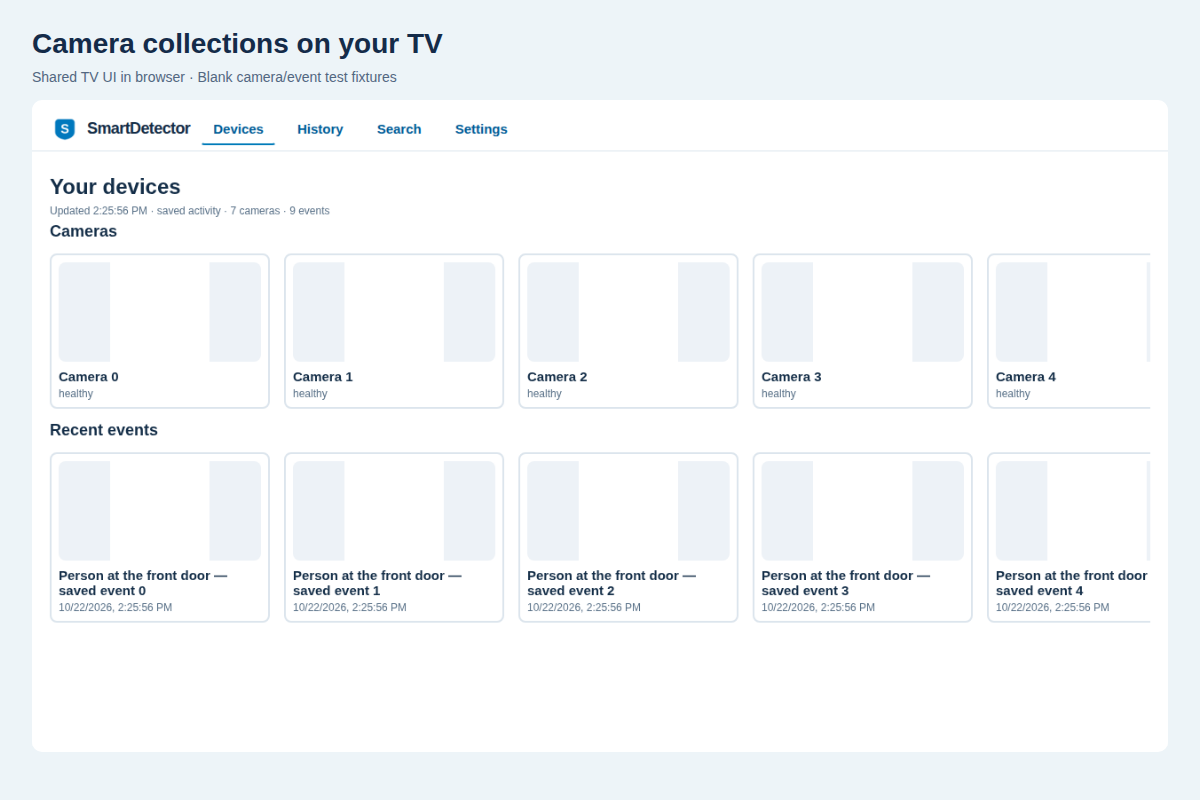
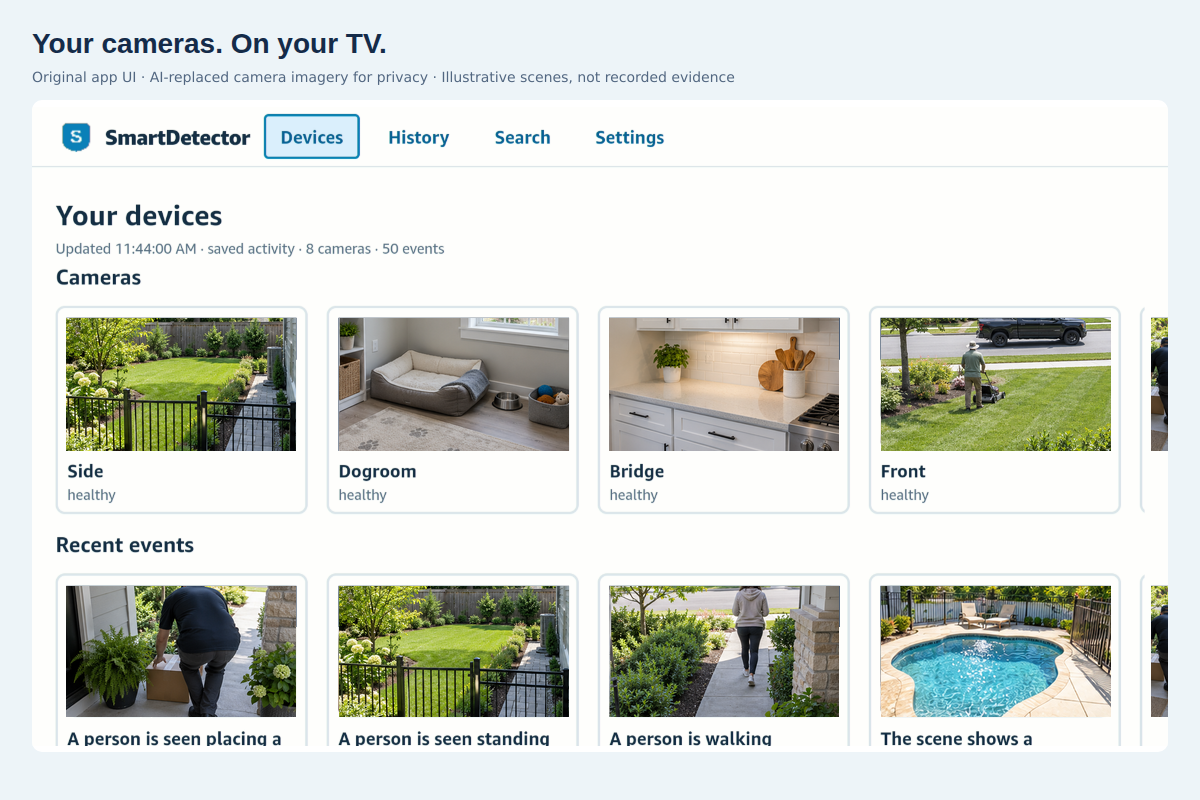
Refresh README and demo gallery with privacy-safe camera imagery

diff --git a/docs/demo-assets/gallery/README.md b/docs/demo-assets/gallery/README.md
@@ -4,23 +4,23 @@ Upload these PNGs in order. Each is **1200 × 800 (3:2)** and below Devpost’s 
 
 | Order | Image | What it shows |
 | --- | --- | --- |
-| 1 | [Website](01-website.png) | Product homepage with public recorded demo content. |
-| 2 | [Dashboard](02-dashboard.png) | Device activity and recent events, using isolated recorded fixtures. |
+| 1 | [Website](01-website.png) | Product homepage; camera photo replaced with a similar anonymous AI scene. |
+| 2 | [Dashboard](02-dashboard.png) | Actual smartdetector.com interface with AI-replaced camera photos; account identifier remains masked. |
 | 3 | [Device catalog](03-devices.png) | SmartDetector’s integration catalog. |
 | 4 | [Connect Ring](04-connect-ring.png) | SmartDetector’s Ring authorization instructions. This is not Ring’s own login or proof of a completed connection. |
 | 5 | [Approve TV](05-pair-tv-web.png) | Browser side of the pairing flow, with a nonfunctional example code. |
 | 6 | [TV QR pairing](06-tv-qr.png) | Shared TV screen captured in the browser. |
-| 7 | [TV devices](07-tv-devices.png) | Camera and activity rails with test fixtures. |
-| 8 | [TV camera](08-tv-camera.png) | Camera detail and history navigation. |
-| 9 | [TV event](09-tv-event.png) | Frame-review interface with blank evidence fixtures. |
-| 10 | [TV search](10-tv-search.png) | Saved-event search results from test fixtures. |
+| 7 | [TV devices](07-tv-devices.png) | Physical Vega Fire TV interface with similar AI-generated camera scenes. |
+| 8 | [TV camera](08-tv-camera.png) | Browser camera-detail fixture with an illustrative AI photo. |
+| 9 | [TV event](09-tv-event.png) | Native physical-TV review interface with an illustrative AI photo; device identifier remains masked. |
+| 10 | [TV search](10-tv-search.png) | Browser search fixtures with illustrative AI thumbnails. |
 | 11 | [TV settings](11-tv-settings.png) | Read-only display settings. |
 
 ## What these images establish
 
-These are actual browser UI captures, presented on labeled gallery cards. They are not generated mockups. Website screens use an isolated temporary local account; dashboard camera/event responses come from public recorded samples. No Ring account was connected and no fresh inference ran. The temporary account is deleted by the capture script, and fixture devices/events are never written to the database.
+Gallery items 2, 7 and 9 use connected-account interfaces captured on October 22, 2026. Items 7 and 9 come from the physical Vega TV running local 0.1.18 build 14; item 2 comes from smartdetector.com. For the public marketing gallery, photographic regions in items 1, 2, 7, 8, 9 and 10 have been replaced with similar AI-generated anonymous scenes. These are illustrations, not untouched screenshots, real household footage, new detections or inference evidence. Every edited card carries that disclosure. UI pixels outside the photographic regions and exterior provenance caption are verified unchanged; see [pixel audit](ai-edit-audit.json). Account/device identifier masks are retained. Unedited originals and raw videos remain outside Git in the private sibling demo-assets directory.
 
-TV images are from the shared React Native Web UI captured by Playwright, not native Vega screenshots. Their captions preserve that distinction. Use an actual Vega simulator or physical-TV recording for the required native demonstration. No private household footage, real account identifiers, provider tokens or credentials are included.
+The other images retain their original provenance: website onboarding/catalog captures use an isolated local account, and TV pairing, camera detail, search and settings remain shared React Native Web previews with fixtures. Screens without camera imagery were left unchanged. These previews do not establish native behavior on screens we have not captured. Neither the illustrative photos nor supplied external detections prove fresh SmartDetector Bedrock inference.
 
 AutoVision is an optional external detection add-on, outside the hackathon submission. Recorded sample imagery is demonstration content, not a claim of SmartDetector-native image detection or a live Bedrock response.
 
@@ -32,4 +32,14 @@ Start the local website and ensure the [existing TV captures](../../images/vega-
 GALLERY_URL=http://localhost:8082 node apps/vega/preview/capture-gallery.mjs
 ```
 
-The script refuses non-loopback targets. It creates and then deletes only its own temporary local account. The capture never opens production customer cameras. The image sources and labels are defined in the script; do not remove the fixture/native-preview distinctions when reusing them.
+The original fixture capture script refuses non-loopback targets and deletes only its own temporary local account. It and `render-native-gallery.mjs` produce baseline captures, not the final AI-illustrated gallery. Back up this gallery before running either script. The final image-only compositing pass is:
+
+```bash
+PRIVATE_CAPTURE_DIR=/path/to/smartdetector-demo-assets node apps/vega/preview/polish-gallery.mjs
+```
+
+It reads the pre-edit 1200×800 cards from `gallery-before-ai/` in that private directory, uses the committed AI scene assets, verifies unchanged UI pixels, and writes the six replacements and audit. Raw captures must never be copied into the repository. Keep provenance captions when reusing assets.
+
+## AI editing brief
+
+Built-in image generation was used, followed by deterministic photo-region compositing. Prompt: sharp, photorealistic anonymous security-camera scenes similar to the originals (parcel delivery, garden gate, visitor leaving, front lawn with pickup and gardener, empty pet room, kitchen, pool). No identifiable faces, addresses, readable plates, device IDs, logos or embedded timestamps. Preserve the actual UI; do not redraw navigation, controls or analysis. Sources: `../ai-camera-scenes.png` and `../ai-pool-scene.png`.

diff --git a/docs/HACKATHON-FIELD-GUIDE.md b/docs/HACKATHON-FIELD-GUIDE.md
@@ -10,13 +10,13 @@ Quick links: [Create account](https://smartdetector.com/signup) · [Sign in](htt
 
 ## Take a look before you start
 
-![SmartDetector QR pairing screen captured by Playwright](images/vega-playwright/1280-pairing.png)
+![SmartDetector QR pairing screen captured by Playwright](demo-assets/gallery/06-tv-qr.png)
 
 *Pair on your phone or computer; browse on the TV. Actual shared React UI captured in Playwright at 1280 × 720, using isolated test responses.*
 
 [Watch the browser UI walkthrough — WebM](images/vega-playwright/1280-walkthrough.webm) · [Capture details and reproduction](images/vega-playwright/README.md)
 
-These are browser-preview captures, not native Vega recordings. Camera names, timestamps, events and blank image fixtures are test data. They demonstrate the interface, not Ring delivery or real inference. The required hackathon video must separately show the native app on Vega hardware or its simulator.
+The pairing screen and linked browser walkthrough use isolated test responses. Gallery cards below include native physical-TV interfaces and browser previews, with AI-generated replacement camera imagery for privacy. Captions distinguish them; illustrative photos do not establish Ring delivery or real inference. [View the complete gallery](demo-assets/gallery/README.md). The required hackathon video must separately show the native app on Vega hardware or its simulator.
 
 ## Step 1 — Launch the Vega simulator
 
@@ -74,9 +74,9 @@ Ring’s own camera/cloud subscription requirements are separate from SmartDetec
 
 **You should see:** the Devices screen. An empty location is normal until you connect cameras. A TV display is a viewer, not a camera, so it does not produce its own image or motion events.
 
-![Camera and event rails in the shared React interface](images/vega-playwright/1280-home.png)
+![Camera and event rails with illustrative camera imagery](demo-assets/gallery/07-tv-devices.png)
 
-*The camera library uses horizontal rails. Test fixtures shown; these are not private household cameras.*
+*Native physical-TV interface with similar AI-generated camera scenes substituted for privacy. These illustrations are not recorded evidence.*
 
 Pairing codes last ten minutes. Get a fresh code if necessary. Display authorization is held in app memory: after restarting the app, pair again. You can revoke the display from the website’s Devices section.
 
@@ -104,13 +104,13 @@ Ring currently documents US-located test devices and an active Ring Protection p
 
 **Success:** the same camera event and retained evidence are visible on the website and the paired TV. Opening live view alone is not a motion event. Empty results mean no matching retained evidence—not proof that nothing happened.
 
-![Frame review controls in the shared React interface](images/vega-playwright/1280-event.png)
+![Frame review controls with illustrative camera imagery](demo-assets/gallery/09-tv-event.png)
 
-*Review sampled frames and available evidence. This UI capture uses blank test images and does not represent analyzed footage.*
+*Native frame-review interface; the photo is an AI-generated privacy-safe illustration, not retained evidence or a new inference result.*
 
-![Saved-event search in the shared React interface](images/vega-playwright/1280-results.png)
+![Saved-event search in the shared React interface](demo-assets/gallery/10-tv-search.png)
 
-*Search existing retained evidence, then select a result to review it. Search results shown are isolated fixtures.*
+*Search existing retained evidence, then select a result to review it. This browser fixture uses AI-generated illustrative thumbnails.*
 
 ## What to look for in the Vega app
 

diff --git a/README.md b/README.md
@@ -37,11 +37,11 @@ Inspired by Ring and Prime Video, SmartDetector treats cameras like collections 
 
 **Ring supplies the activity. SmartDetector organizes it. Vega brings it to your screen.**
 
-![SmartDetector camera and recent-event rails](docs/images/vega-playwright/1280-home.png)
+![SmartDetector TV interface with privacy-safe illustrative camera imagery](docs/demo-assets/gallery/07-tv-devices.png)
 
-*The shared React UI, captured with Playwright using isolated test fixtures. This is a browser preview, not native Vega footage or evidence of real camera analysis.*
+*UI captured on a physical Vega Fire TV. Camera imagery is replaced with similar AI-generated scenes for privacy; the interface is unchanged.*
 
-[Watch the UI walkthrough](docs/images/vega-playwright/1280-walkthrough.webm) · [Capture details](docs/images/vega-playwright/README.md)
+[Watch the browser UI walkthrough](docs/images/vega-playwright/1280-walkthrough.webm) · [Native capture details](docs/images/vega-native/README.md)
 
 ## From a moment at the door to a clearer picture
 
@@ -51,9 +51,15 @@ Inspired by Ring and Prime Video, SmartDetector treats cameras like collections 
 4. **Review the evidence.** Step through sampled frames and inspect available detections and AI context.
 5. **Stay in control.** Use location-scoped access, revocable read-only displays, data purge and account deletion. Saved event/image retention defaults to 24 hours.
 
-![QR pairing on SmartDetector Console](docs/images/vega-playwright/1280-pairing.png)
+![QR pairing on SmartDetector Console](docs/demo-assets/gallery/06-tv-qr.png)
 
 *Playwright capture of the pairing interface. The displayed code is a nonfunctional fixture; use the code on your own running app.*
+
+![SmartDetector web dashboard with privacy-safe camera imagery](docs/demo-assets/gallery/02-dashboard.png)
+
+*The same connected-device dashboard on the web, with similar AI-generated camera scenes substituted for privacy.*
+
+[View the complete screenshot gallery](docs/demo-assets/gallery/README.md)
 
 The app also includes foreground alerts. An ADM background receiver and actionable system-popup integration are implemented; cross-app popup/image behavior remains a physical-device verification item. Native live video is not implemented: live-view links use the web console. We keep those boundaries explicit rather than presenting planned capabilities as finished features.
 

diff --git a/apps/vega/README.md b/apps/vega/README.md
@@ -1,5 +1,11 @@
 # SmartDetector Console for Vega
 
+![SmartDetector Vega camera and event rails](../../docs/demo-assets/gallery/07-tv-devices.png)
+
+*Physical-TV interface with similar AI-generated camera imagery for privacy. UI pixels are preserved; photos are illustrative, not recorded evidence.*
+
+[Screenshot gallery](../../docs/demo-assets/gallery/README.md) · [Judge’s field guide](../../docs/HACKATHON-FIELD-GUIDE.md)
+
 Integration scope: SmartDetector’s own Bedrock feature summarizes incident observations. AutoVision, where mentioned below, is an optional, separately developed external detection add-on outside this hackathon submission. Its connector is free to add; external service configuration, quotas and costs still apply. Steps that invoke that add-on require it and are not evidence of native SmartDetector image detection.
 
 Native React Native client, separate from the Next.js web console. Uses the Amazon SDK's React Native 0.72 `helloWorld-rn72` template, not a WebView or Android APK.
@@ -49,6 +55,8 @@ Security review remains required before Appstore publication. The RN 0.72 produc
 ## Browser and mobile UI preview
 
 ### TV interaction and QR pairing
+
+Native RN 0.72 uses a resolution-aware viewport to map the 960×540 logical TV layout onto the actual display surface. Styles, card/scroll calculations and focusable controls share those coordinates; physical pixels are not assumed to equal browser CSS pixels. The browser/mobile preview uses its own unscaled adapter. Check the actual TV after runtime or display-resolution changes: browser screenshots alone cannot verify native sizing.
 
 The shared native/web screens use camera cards like shows and camera events like episodes. Home stacks horizontal camera/activity rails: Left/Right changes the focused card; Up/Down moves between rows; Back returns through event → camera → home. Large libraries may scroll vertically between rows. Pairing, event review, search, settings and confirmation controls are designed for a single TV viewport; mobile may scroll vertically. Live video still opens the web console, not a native player.
 

diff --git a/docs/images/vega-native/README.md b/docs/images/vega-native/README.md
@@ -1,0 +1,7 @@
+# Reviewed native and live-web captures
+
+Captured October 22, 2026. `native-home.png` and `native-event.png` are actual physical Vega Fire TV captures of SmartDetector Console 0.1.18 build 14. `live-web-dashboard.png` is an authenticated smartdetector.com browser capture.
+
+Device identifiers and selected indoor imagery are covered by explicit, opaque privacy masks. Other UI/scene pixels are preserved; no AI image generation or invented detections were used. The frame-review detections come from the configured external add-on, not SmartDetector's text-only Bedrock summary integration.
+
+Raw sources, recordings and session input remain outside Git. The raw session cookie was supplied through non-echoing input and was not written into a file. `render-native-gallery.mjs` reads private sources through `PRIVATE_CAPTURE_DIR` and exports these redacted screenshots and three 1200×800 gallery cards. Review masks again whenever source images change; their coordinates are specific to these selected frames.

diff --git a/README-TECHNICAL.md b/README-TECHNICAL.md
@@ -24,6 +24,10 @@ SmartDetector’s own Bedrock integration summarizes incident observations; it i
 
 ## Try SmartDetector
 
+![SmartDetector connected-device dashboard](docs/demo-assets/gallery/02-dashboard.png)
+
+*Captured web interface with privacy-safe AI replacement photos; the UI is unchanged. [Full screenshot gallery](docs/demo-assets/gallery/README.md).*
+
 For developer registration, the official Ring Playground, local token connection, and production provider linking, see [Ring developer testing](docs/ring-developer-testing.md).
 
 Privacy policy, signed-in deletion options, and 24-hour default event-image retention are documented in [Privacy and deletion](docs/privacy-and-deletion.md). Longer retention requires an active paid subscription and an explicit administrator choice.
